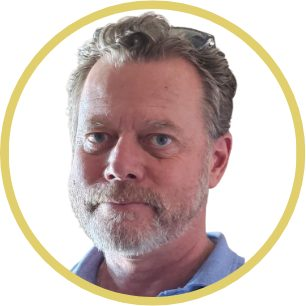
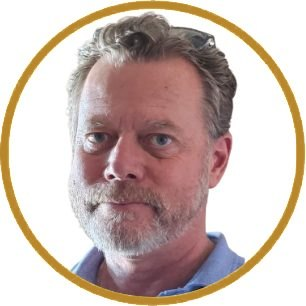
Recolour the board portraits' ring to the site gold
> "the current pictures have a yellow circle, can we change that color to match
> the gold in site"

All six rings were rgb(224, 208, 112), a pale yellow that sits next to the gold
office labels, the gold pill and the gold "Read the full bio" links without
matching any of them. They are now `--gold`, rgb(184, 134, 43).

**Only the ring changed, and that took three tries.** The photographs are
untouched: measured inside the circle, mean difference 0.35-1.36 per channel and
worst single pixel 4-12, which is JPEG re-encode noise; in the ring band it is
5.6-15.6, the intended change.

- **A colour key alone is not enough.** "Yellowish" -- r and g high, b lower --
  also matches skin and blonde hair. It recoloured part of Michele's face and a
  smudge of Madeline's hair.
- **A radius mask is not enough either.** It works on four of the six and fails
  on Jennifer, whose ring is not concentric with her crop: her radial profile
  never exceeds 59% ring at any radius, where Greg's is a clean 100% plateau.
  A first attempt at fitting the band per portrait picked 0.203-0.968 on one and
  -0.002-1.004 on another, because bins near the centre hold a handful of pixels
  and one stray reads as 100%.
- **What works is connected regions.** Match on the ring's own measured colour,
  group the matching pixels, and keep only the region that SPANS the frame. That
  is the ring by definition -- it is the only thing that goes all the way round.
[…]

Changed region(s): [[0.0, 0.0, 1.0, 1.0]]

diff --git a/php/test/run.php b/php/test/run.php
@@ -2043,6 +2043,43 @@ test('a page can open its copy with a callout', function () {
     }
 });
 
+// Every image ships twice -- once to the dev twin, once to the build that is
+// actually deployed -- and they are copied by hand. A slip leaves the deployed
+// site with the old file while the twin shows the new one, which no suite, no
+// lint and no cross-build render diff would notice: the diff compares MARKUP,
+// and both builds reference `/img/<same path>`. Same class as the content store
+// drifting, which is already pinned.
+test('every image is byte-identical in both builds', function () {
+    $root = dirname(__DIR__, 2);
+    $scan = function (string $base): array {
+        $out = [];
+        $dir = new RecursiveIteratorIterator(new RecursiveDirectoryIterator($base, FilesystemIterator::SKIP_DOTS));
+        foreach ($dir as $file) {
+            if ($file->isFile()) {
+                $out[substr($file->getPathname(), strlen($base) + 1)] = md5_file($file->getPathname());
+            }
+        }
+        ksort($out);
+        return $out;
+    };
+    $node = $scan($root . '/public/img');
+    $php = $scan($root . '/php/public_html/img');
+
+    $onlyNode = array_diff_key($node, $php);
+    $onlyPhp = array_diff_key($php, $node);
+    ok($onlyNode === [], 'images only in the dev twin: ' . implode(', ', array_keys($onlyNode)));
+    ok($onlyPhp === [], 'images only in the deployed build: ' . implode(', ', array_keys($onlyPhp)));
+
+    $differ = [];
+    foreach (array_intersect_key($node, $php) as $path => $sum) {
+        if ($php[$path] !== $sum) {
+            $differ[] = $path;
+        }
+    }
+    ok($differ === [], 'these images differ between the builds: ' . implode(', ', $differ));
+    ok(count($node) > 50, 'the image scan found almost nothing, so it is not checking anything');
+});
+
 echo "\n" . str_repeat('-', 46) . "\n";
 echo ($failed === 0 ? "ALL PASSED" : "FAILURES") . ": $passed passed, $failed failed\n\n";
 exit($failed === 0 ? 0 : 1);
